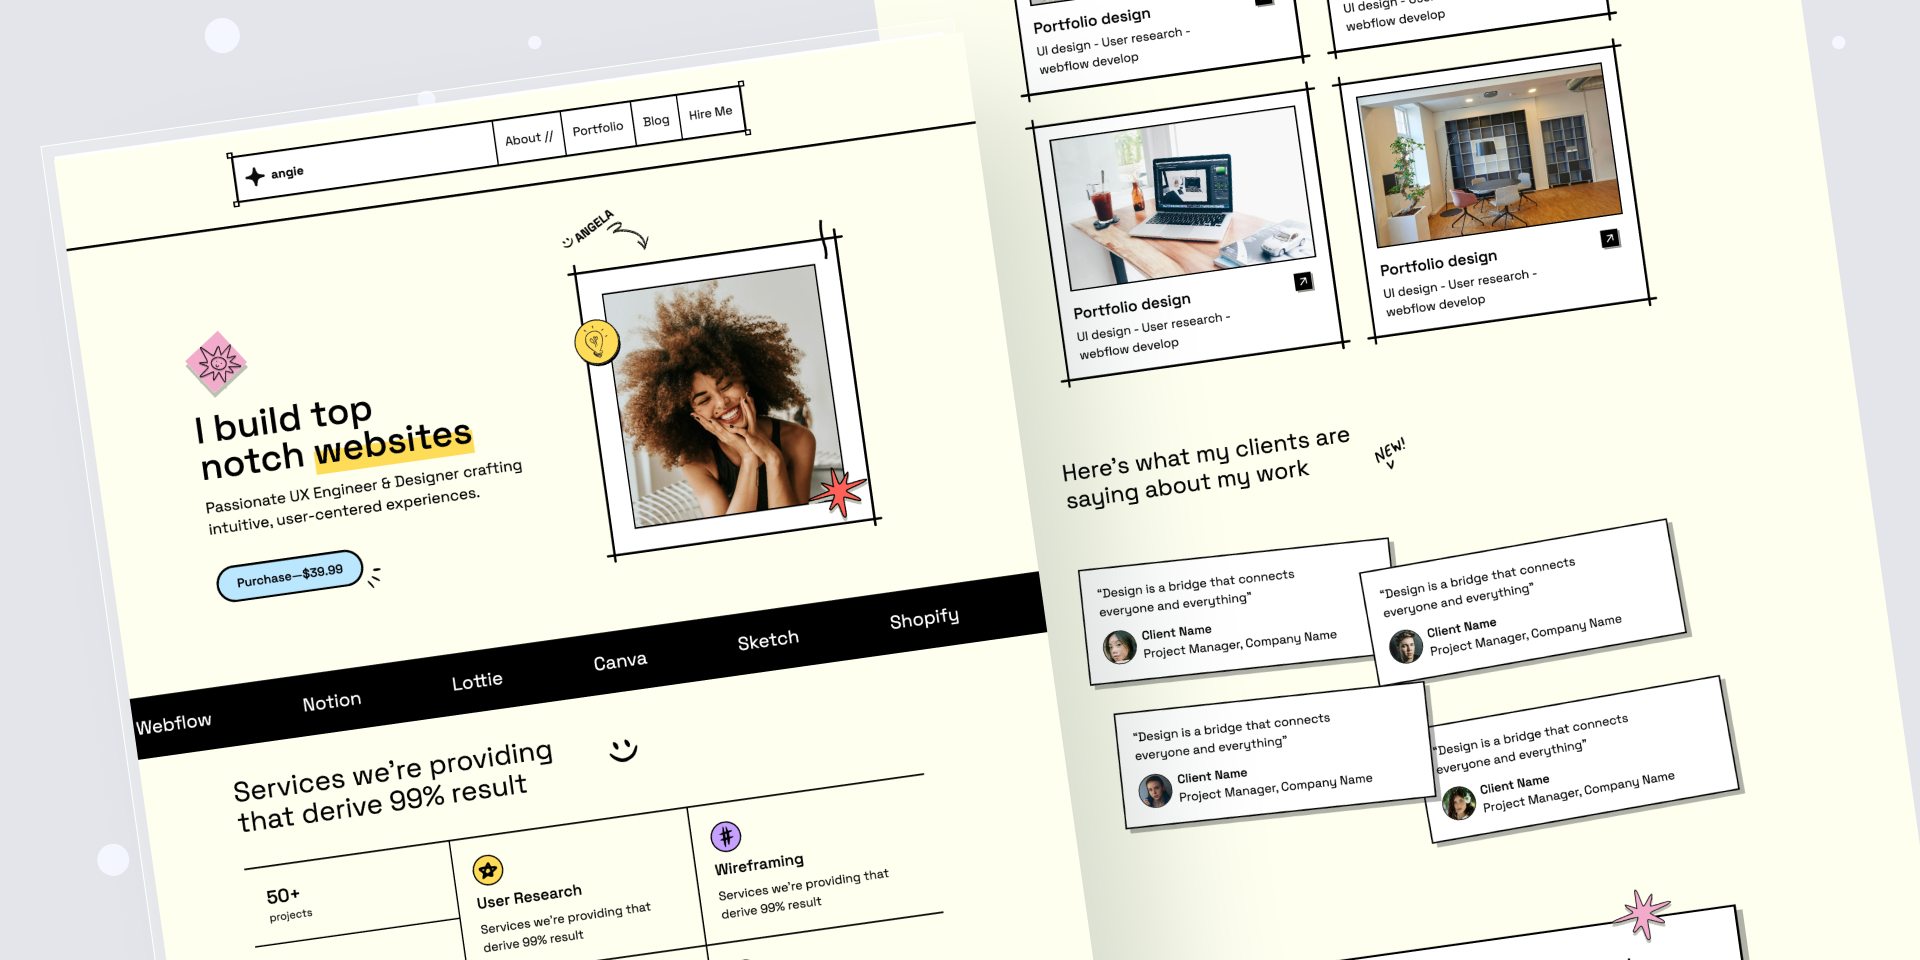
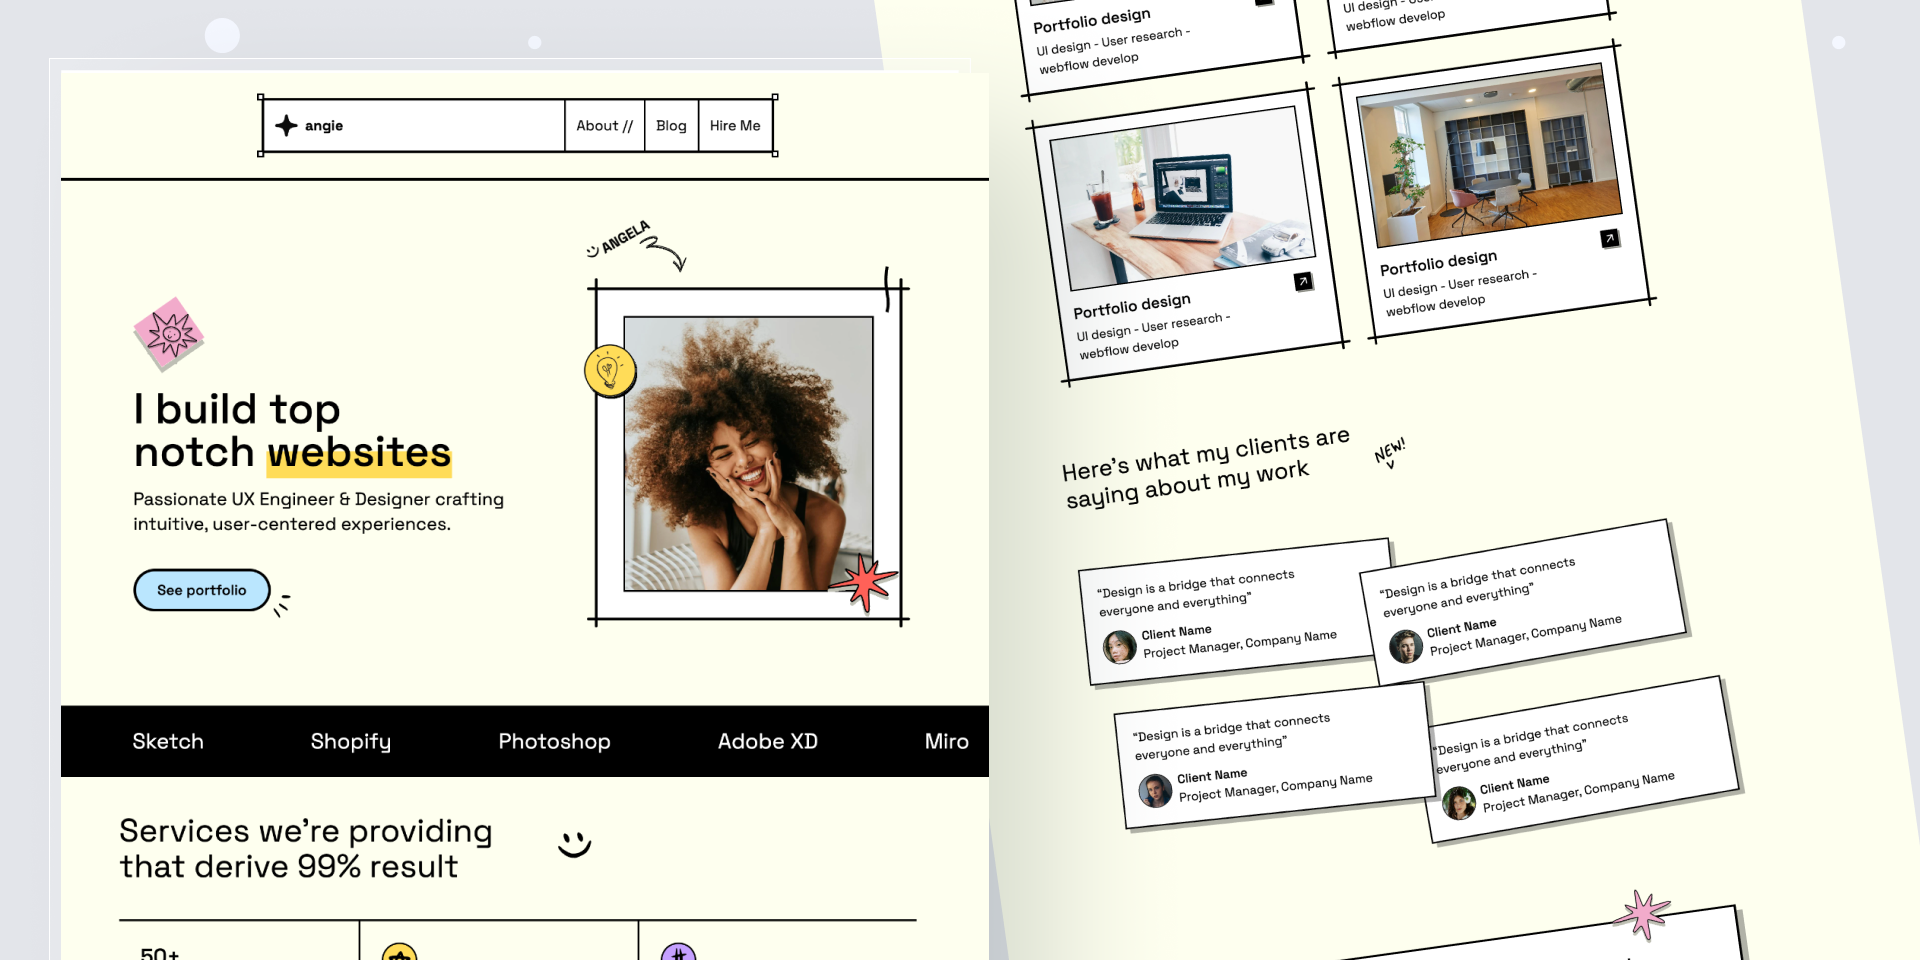
repo made public

diff --git a/src/sample.ts b/src/sample.ts
@@ -10,8 +10,8 @@ const author = {
 
 
 const buy = {
-    title: `Purchase—$29.99`,
-    link: `https://buy.stripe.com/bIY5klbiBgZx2bKcMS`
+    title: `See on Github`,
+    link: `https://github.com/anthonylan/angie`
 }
 
 
